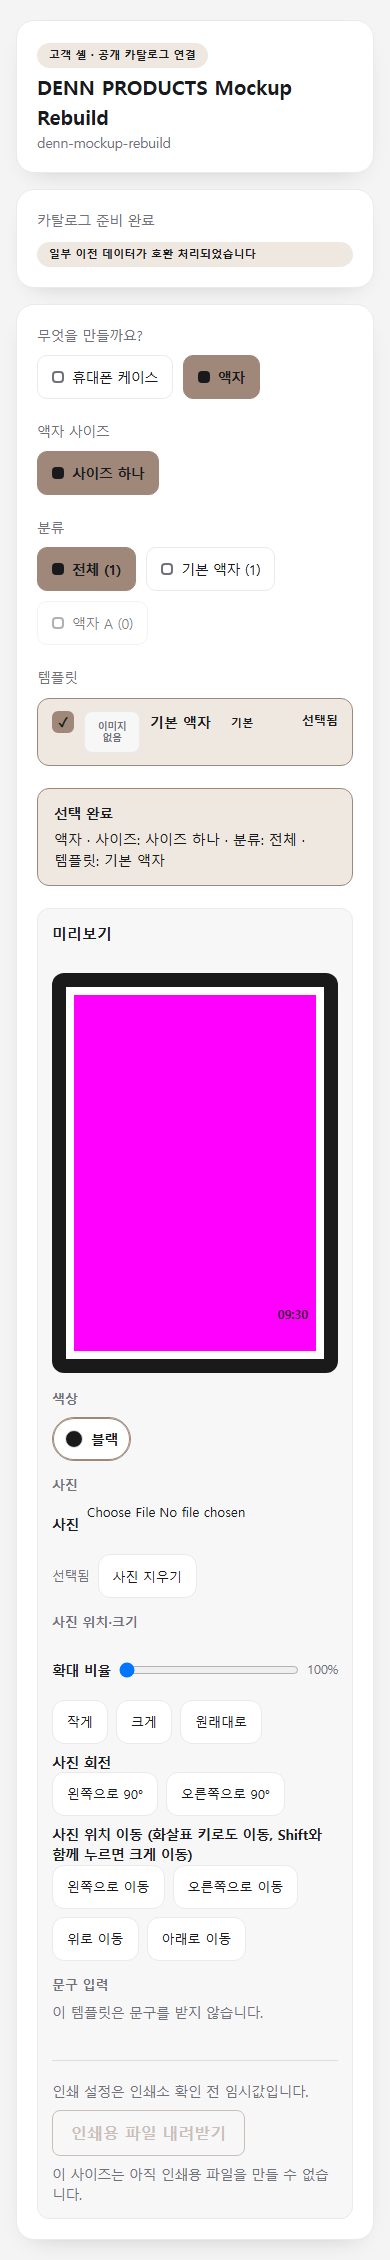
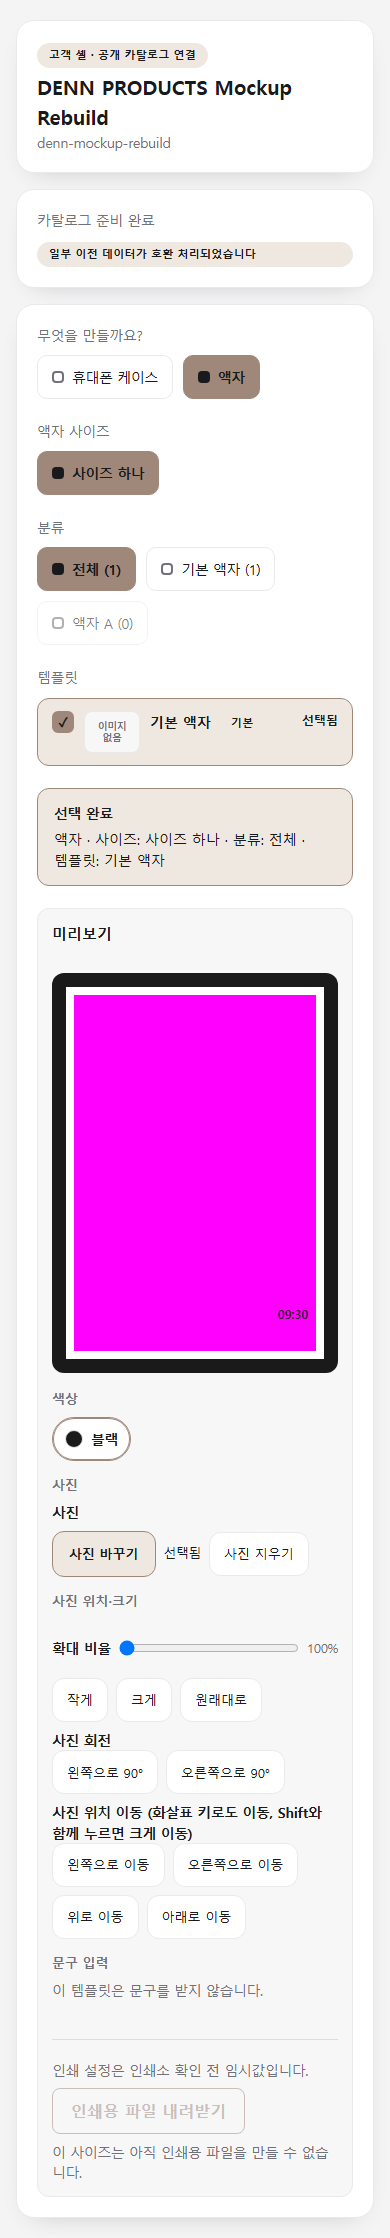
spec 088: refine customer photo picker and verify native interaction

diff --git a/tests/e2e/mockup-preview.spec.ts b/tests/e2e/mockup-preview.spec.ts
@@ -387,6 +387,104 @@ test("no file name, blob url, catalog id or failure code reaches the page", asyn
   expect(noise.errors).toEqual([]);
 });
 
+for (const size of [
+  { width: 320, height: 568 },
+  { width: 390, height: 844 },
+  { width: 1280, height: 800 },
+]) {
+  test(`spec 088 Korean picker ${size.width}: native keyboard, cancel, repick and clear`, async ({
+    page,
+  }) => {
+    const noise = collectConsole(page);
+    const route = await routeCatalog(page);
+    await page.setViewportSize(size);
+    await gotoReady(page);
+    await chooseCase(page);
+    await openComposer(page);
+    await pickColour(page, "#1A1A1A");
+    const input = page.getByTestId("preview-file-case-zone-0");
+    const picker = page.locator(".denn-composer__photo-picker").first();
+    const status = page.getByTestId("preview-slot-case-zone-0");
+    await expect(input).toHaveAccessibleName("사진 1");
+    await expect(input).toHaveAccessibleDescription("선택 안 됨");
+    await expect(picker).toHaveText("사진 선택");
+    await input.focus();
+    // Return via genuine keyboard navigation; programmatic focus after a mouse click
+    // does not establish the browser's focus-visible keyboard modality.
+    await page.keyboard.press("Tab");
+    await page.keyboard.press("Shift+Tab");
+    await expect(input).toBeFocused();
+    await expect(picker).toHaveCSS("outline-style", "solid");
+    const box = await input.boundingBox();
+    expect(box?.width ?? 0).toBeGreaterThanOrEqual(44);
+    expect(box?.height ?? 0).toBeGreaterThanOrEqual(44);
+    await expect(input).toHaveCSS("opacity", "0");
+    const firstChooser = page.waitForEvent("filechooser");
+    await input.press("Enter");
+    await (await firstChooser).setFiles(photo(`${FILE_MARKER}.png`, PHOTO_A));
+    await expect(status).toHaveText("선택됨");
+    await expect(picker).toHaveText("사진 바꾸기");
+    await expect(input).toHaveValue("");
+    await expect(input).toHaveAccessibleDescription("선택됨");
+    await expect(page.getByTestId("preview-slot-case-zone-1")).toHaveText("선택 안 됨");
+
+    // The OS dialog itself is outside automation. Model its no-file change/cancel notification.
+    await input.setInputFiles([]);
+    await input.dispatchEvent("cancel");
+    await expect(status).toHaveText("선택됨");
+    const secondChooser = page.waitForEvent("filechooser");
+    await input.press("Space");
+    await (await secondChooser).setFiles(photo(`${FILE_MARKER}.png`, PHOTO_B));
+    await expect(status).toHaveText("선택됨");
+    await expect(input).toHaveValue("");
+    expect(await page.evaluate(() => document.documentElement.scrollWidth <= innerWidth)).toBe(
+      true,
+    );
+    const axe = await new AxeBuilder({ page }).analyze();
+    expect(axe.violations.filter((v) => v.impact === "serious" || v.impact === "critical")).toEqual(
+      [],
+    );
+    await page.evaluate(() => document.fonts.ready.then(() => undefined));
+    const { mkdirSync } = await import("node:fs");
+    mkdirSync("docs/rebuild/results/spec-088", { recursive: true });
+    await page.locator(".denn-composer__slots").screenshot({
+      path: `docs/rebuild/results/spec-088/photo-picker-${size.width}x${size.height}.png`,
+      animations: "disabled",
+    });
+    await page.getByTestId("preview-clear-case-zone-0").click();
+    await expect(status).toHaveText("선택 안 됨");
+    await expect(picker).toHaveText("사진 선택");
+    expect(await page.locator("body").innerText()).not.toContain(FILE_MARKER);
+    expect(noise.all.join("|")).not.toContain(FILE_MARKER);
+    expect(noise.errors).toEqual([]);
+    expect(noise.warnings).toEqual([]);
+    expect(route.unexpected()).toBe(0);
+  });
+}
+
+test("spec 088 failed photo keeps the picker usable and allows an explicit replacement", async ({
+  page,
+}) => {
+  const noise = collectConsole(page);
+  const route = await routeCatalog(page);
+  await gotoReady(page);
+  await chooseCase(page);
+  await openComposer(page);
+  const input = page.getByTestId("preview-file-case-zone-0");
+  await input.setInputFiles({
+    name: `${FILE_MARKER}.png`,
+    mimeType: "image/png",
+    buffer: Buffer.from("invalid"),
+  });
+  await expect(page.getByTestId("preview-slot-case-zone-0")).toHaveText("실패");
+  await expect(input).toBeEnabled();
+  await expect(input).toHaveAccessibleDescription("실패");
+  await pickPhoto(page, "case-zone-0", PHOTO_A);
+  await expect(page.getByTestId("preview-slot-case-zone-0")).toHaveText("선택됨");
+  expect(noise.errors).toEqual([]);
+  expect(route.unexpected()).toBe(0);
+});
+
 test("keyboard only: open the composer, choose a colour, reach the file inputs", async ({
   page,
 }) => {

diff --git a/apps/mockup/src/preview/PreviewComposer.tsx b/apps/mockup/src/preview/PreviewComposer.tsx
@@ -236,25 +236,36 @@ function ImageSlot({
   useEffect(() => () => onReport(slotId, null), [slotId, onReport]);
 
   const inputId = `denn-preview-file-${slotId}`;
+  const labelId = `${inputId}-label`;
+  const stateId = `${inputId}-state`;
   return (
-    <div className="denn-composer__slot">
-      <label className="denn-composer__slot-label" htmlFor={inputId}>
+    <div className="denn-composer__slot" data-photo-state={state.status}>
+      <label id={labelId} className="denn-composer__slot-label" htmlFor={inputId}>
         {label}
       </label>
-      <input
-        id={inputId}
-        data-testid={`preview-file-${slotId}`}
-        className="denn-composer__slot-input"
-        type="file"
-        accept="image/*"
-        onChange={(event) => {
-          const chosen = event.target.files?.[0];
-          // emptied by THIS owner so the same file can be picked again (spec 026 §5)
-          event.target.value = "";
-          if (chosen) picked.load(chosen);
-        }}
-      />
-      <span className="denn-composer__slot-state" data-testid={`preview-slot-${slotId}`}>
+      <label className="denn-composer__photo-picker" htmlFor={inputId}>
+        <span aria-hidden="true">{state.status === "ready" ? "사진 바꾸기" : "사진 선택"}</span>
+        <input
+          id={inputId}
+          data-testid={`preview-file-${slotId}`}
+          className="denn-composer__slot-input"
+          type="file"
+          accept="image/*"
+          aria-labelledby={labelId}
+          aria-describedby={stateId}
+          onChange={(event) => {
+            const chosen = event.target.files?.[0];
+            // emptied by THIS owner so the same file can be picked again (spec 026 §5)
+            event.target.value = "";
+            if (chosen) picked.load(chosen);
+          }}
+        />
+      </label>
+      <span
+        id={stateId}
+        className="denn-composer__slot-state"
+        data-testid={`preview-slot-${slotId}`}
+      >
         {SLOT_STATE_LABEL[state.status]}
       </span>
       {state.status === "ready" ? (

diff --git a/apps/mockup/src/browse/browse.css b/apps/mockup/src/browse/browse.css
@@ -302,11 +302,58 @@
   color: var(--ink);
 }
 
-.denn-composer__slot-input {
+.denn-composer__slot > .denn-composer__slot-label {
+  flex-basis: 100%;
+}
+
+/* The native input stays focusable and owns the whole Korean selection surface. */
+.denn-composer__photo-picker {
+  position: relative;
+  display: inline-flex;
+  align-items: center;
+  justify-content: center;
+  /* 44px hit area inside the two 1px borders. */
+  min-height: 46px;
   max-width: 100%;
-  min-height: 44px;
+  padding: 10px 16px;
+  border: 1px solid var(--accent);
+  border-radius: var(--radius, 12px);
+  background: var(--accent-soft);
+  color: var(--accent-ink);
   font: inherit;
   font-size: 13px;
+  font-weight: 600;
+  cursor: pointer;
+}
+
+.denn-composer__photo-picker:hover {
+  background: var(--surface);
+}
+
+.denn-composer__photo-picker:active {
+  background: var(--accent-soft);
+}
+
+.denn-composer__photo-picker:has(input:focus-visible) {
+  outline: 2px solid var(--ink);
+  outline-offset: 3px;
+}
+
+.denn-composer__slot-input {
+  position: absolute;
+  inset: 0;
+  width: 100%;
+  height: 100%;
+  opacity: 0;
+  cursor: pointer;
+}
+
+.denn-composer__slot[data-photo-state="ready"] > .denn-composer__slot-state {
+  color: var(--ink);
+}
+
+.denn-composer__slot[data-photo-state="failed"] > .denn-composer__slot-state {
+  color: var(--danger-ink);
 }
 
 .denn-composer__slot-state {

diff --git a/apps/mockup/src/preview/PreviewComposer.test.tsx b/apps/mockup/src/preview/PreviewComposer.test.tsx
@@ -77,6 +77,20 @@ describe("PreviewSection", () => {
 });
 
 describe("PreviewComposer — before any choice", () => {
+  it("keeps each native picker named, described and paired with a Korean surface", () => {
+    const markup = caseComposer();
+    expect(markup.match(/type="file"/g)).toHaveLength(2);
+    expect(markup.match(/>사진 선택<\/span>/g)).toHaveLength(2);
+    for (const slot of ["case-zone-0", "case-zone-1"]) {
+      const id = `denn-preview-file-${slot}`;
+      expect(markup).toContain(`id="${id}-label"`);
+      expect(markup).toContain(`aria-labelledby="${id}-label"`);
+      expect(markup).toContain(`aria-describedby="${id}-state"`);
+      expect(markup).toContain(`id="${id}-state"`);
+    }
+    expect(markup).not.toContain('type="file" hidden');
+  });
+
   it("shows every case colour with none pre-selected", () => {
     const markup = caseComposer();
     expect(markup).toContain("#1A1A1A");
